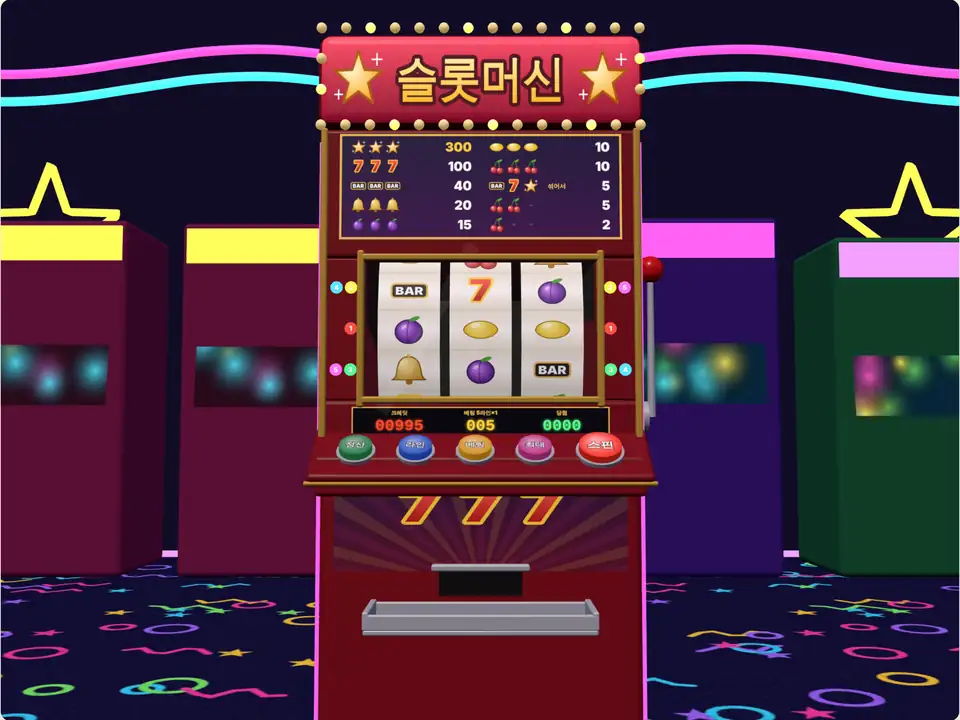
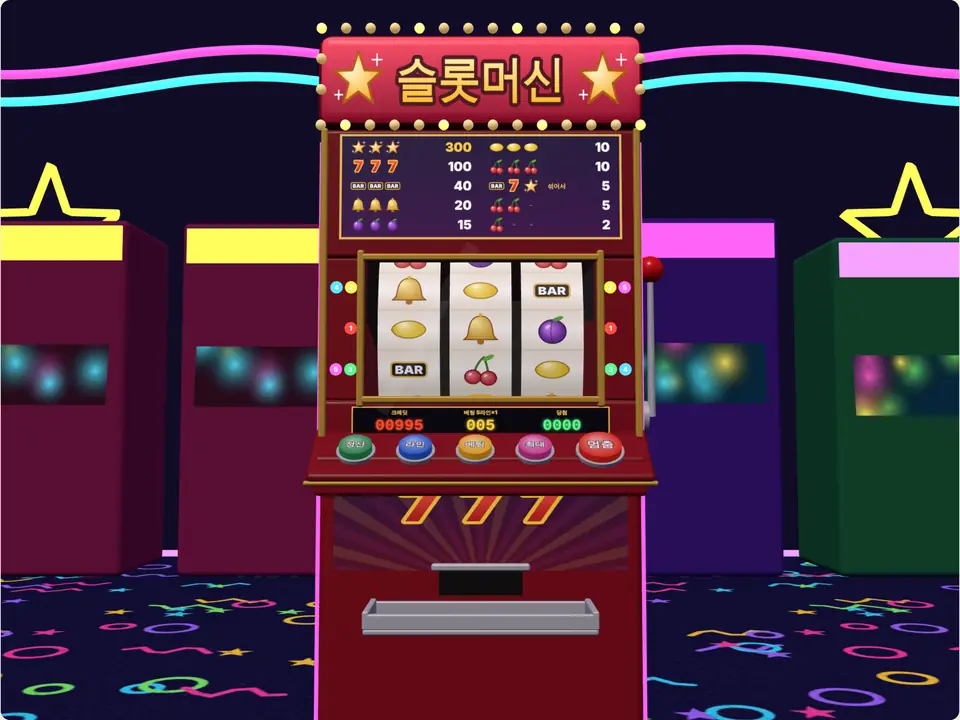
Slot machine: only the lever starts it by a pointer; the spin button becomes 멈춤 (hurry only)
Claude-Session: https://claude.ai/code/session_01Uedx1uYtd54DPXXtQh77nN

diff --git a/src/games/slots/view.ts b/src/games/slots/view.ts
@@ -29,7 +29,8 @@ const BUTTONS = [
   { key: "lines", label: "라인", move: LINE_MOVE, x: -0.24, colour: "#2a5ac8" },
   { key: "bet", label: "베팅", move: BET, x: -0.02, colour: "#e0a020" },
   { key: "max", label: "최대", move: MAX, x: 0.2, colour: "#c83a8a" },
-  { key: "spin", label: "스핀", move: PULL, x: 0.44, colour: "#d8261c" },
+  // Only the lever starts the machine by a click or a touch (the user asked); this button stops the turning reels sooner.
+  { key: "stop", label: "멈춤", move: HURRY, x: 0.44, colour: "#d8261c" },
 ];
 /** The console the buttons stand on: its middle's height, how far it stands out, and how far its top leans toward the player. */
 const DECK = { y: 0.86, z: FRONT + 0.2, slope: 0.62 };
@@ -143,7 +144,7 @@ function stripTextures(reel: number, keep: Keep) {
 /**
  * A slot machine in an amusement arcade's corner, seen from the stool before it: a cabinet with a lit sign and
  * chasing bulbs on top, the pay table, the reel window with three real drums turning behind the glass, the credit
- * display, a deck of buttons (정산, 라인, 베팅, 최대, 스핀), a lever on the right, and the coin tray under it where
+ * display, a deck of buttons (정산, 라인, 베팅, 최대, 멈춤), a lever on the right, and the coin tray under it where
  * the winnings rattle out. The reels' stops are drawn here at random (each place of a strip as likely as any) and
  * played as the spin's move; the books (`rules.ts`) pay what the stops show once every reel has come to rest.
  */
@@ -457,7 +458,7 @@ export class SlotView extends TableView<State> {
   private deckButtons(keep: Keep) {
     const ringPaint = this.metal("#d8dde4", capable(), 0.2);
     for (const button of BUTTONS) {
-      const big = button.key === "spin",
+      const big = button.key === "stop",
         r = big ? 0.085 : 0.066,
         label = painted(
           128,
@@ -548,7 +549,7 @@ export class SlotView extends TableView<State> {
   private legal(to: number) {
     return !!this.state && moves(this.state).some((m) => m.to === to);
   }
-  /** The lever, the spin button, a tap on the window or the space bar: pull (and spin), or hurry the next reel. */
+  /** The lever or the space bar: pull (and spin), or hurry the next reel. */
   private spinOrHurry() {
     const s = this.state;
     if (!s || s.winner !== null) return;
@@ -570,13 +571,15 @@ export class SlotView extends TableView<State> {
       const button = this.buttons[point - 2000];
       button.pressed = performance.now();
       this.onKnock?.("button", 1);
-      if (button.key === "spin") this.spinOrHurry();
-      else if (this.legal(button.move)) this.onMove({ from: -1, to: button.move, extra: -1 });
+      if (button.key === "stop") {
+        if (this.state?.pending && this.reels.some((r) => r.phase === "spin")) this.onMove({ from: -1, to: HURRY, extra: -1 });
+        else this.onKnock?.("deny", 1);
+      } else if (this.legal(button.move)) this.onMove({ from: -1, to: button.move, extra: -1 });
       else this.onKnock?.("deny", 1);
       return true;
     }
-    this.spinOrHurry();
-    return true;
+    // Anywhere else: nothing (only the lever starts the machine; the user found a tap anywhere pulled it).
+    return false;
   }
   protected dragMove(at: { x: number; y: number; z: number }) {
     const held = this.leverHeld;
@@ -779,8 +782,10 @@ export class SlotView extends TableView<State> {
       const age = now - b.pressed,
         dip = b.pressed >= 0 && age < 160 ? Math.sin((age / 160) * Math.PI) * 0.014 : 0;
       b.mesh.position.y = 0.03 - dip;
-      const on = b.key === "spin" ? !!this.state && this.state.winner === null && (!!this.state.pending || this.legal(PULL)) : this.legal(b.move);
-      b.cap.emissiveIntensity = on ? (b.key === "spin" && !this.state?.pending ? 0.55 + 0.25 * Math.sin(now / 220) : 0.5) : 0.08;
+      // 멈춤 lights while the reels turn (and blinks then); the others when what they do may be done.
+      const turning = !!this.state?.pending && this.reels.some((r) => r.phase === "spin"),
+        on = b.key === "stop" ? turning : this.legal(b.move);
+      b.cap.emissiveIntensity = on ? (b.key === "stop" ? 0.55 + 0.25 * Math.sin(now / 160) : 0.5) : 0.08;
     }
     // The lines: those played lit by their numbers; after a spin the winners blink; a change of lines shows them all.
     const s = this.state,

diff --git a/src/games/slots/config.ts b/src/games/slots/config.ts
@@ -83,7 +83,7 @@ export const slotMachineConfig: PointConfig<State> = {
       "기본 규칙",
       steps(
         "라인 수와 한 라인에 걸 크레딧(베팅)을 고릅니다. 한 번 돌리는 데 <b>라인 수 × 베팅</b>만큼 크레딧이 듭니다.",
-        "오른쪽의 <b>레버를 아래로 끌어 당기면</b>(또는 <b>스핀</b> 버튼, 스페이스) 세 릴이 돌기 시작해 왼쪽부터 하나씩 멈춥니다. 돌고 있을 때 스핀 버튼이나 스페이스를 누르면 다음 릴이 바로 멈춥니다(결과는 그대로입니다).",
+        "오른쪽의 <b>레버를 아래로 끌어 당기면</b>(키보드는 스페이스) 세 릴이 돌기 시작해 왼쪽부터 하나씩 멈춥니다. 마우스·터치로는 <b>레버만</b> 기계를 돌립니다(다른 곳을 눌러도 돌지 않습니다). 돌고 있을 때 빨간 <b>멈춤</b> 버튼이나 스페이스를 누르면 다음 릴이 바로 멈춥니다(결과는 그대로입니다).",
         "고른 라인 위에 당첨 그림이 서면 그 라인의 배당 × 베팅만큼 크레딧을 받습니다. 여러 라인이 함께 맞으면 모두 받습니다.",
         "크레딧이 가장 작은 베팅(1)보다 적어지면 끝납니다(파산). 언제든 <b>정산</b>을 누르면 끝내고, 처음보다 크레딧이 늘었으면 승리입니다.",
       ),
@@ -122,7 +122,7 @@ export const slotMachineConfig: PointConfig<State> = {
         "레버는 끝까지 끌어내려야 걸립니다. 놓으면 튕겨 올라옵니다.",
       ),
     ),
-  help: "마우스·터치: 오른쪽 레버를 아래로 끌기, 또는 화면·스핀 버튼 누르기<br>버튼: 정산·라인·베팅·최대·스핀<br>키보드: 스페이스 스핀·멈춤, ↑ 베팅, ← → 라인, M 최대",
+  help: "마우스·터치: 오른쪽 레버를 아래로 끌어 돌리기(레버만 기계를 돌립니다)<br>버튼: 정산·라인·베팅·최대·멈춤<br>키보드: 스페이스 돌리기·멈춤, ↑ 베팅, ← → 라인, M 최대",
   sides: ["나", ""],
   startWord: "슬롯머신 앞에 앉기",
 };

diff --git a/tests/e2e/slot-machine.spec.ts b/tests/e2e/slot-machine.spec.ts
@@ -18,7 +18,7 @@ async function rested(page: Page) {
   await expect.poll(async () => /릴이 돌고/.test((await books(page)).text), { timeout: 20000 }).toBe(false);
 }
 
-test("slot machine: the bet is set on the cabinet, the lever pulled by a drag spins, space and the spin button spin, and the credits add up", async ({ page }, info) => {
+test("slot machine: the bet is set on the cabinet, the lever pulled by a drag spins, space spins, only the lever starts it by the mouse, the stop button hurries, and the credits add up", async ({ page }, info) => {
   test.slow();
   const errors: string[] = [];
   page.on("pageerror", (e) => errors.push(e.message));
@@ -60,11 +60,23 @@ test("slot machine: the bet is set on the cabinet, the lever pulled by a drag sp
   await rested(page);
   after = await books(page);
   expect(after.credits).toBe(before - 10 + after.won);
-  // The spin button on the deck.
+  // Only the lever starts the machine by the mouse: a click on the reels' window, the stop button or the room spins
+  // nothing, and the lever stays up.
   before = after.credits;
-  const spin = await at("spin");
-  await page.mouse.click(spin.x, spin.y);
+  const frame = (await canvas.boundingBox())!,
+    stop = await at("stop");
+  for (const [x, y] of [[frame.x + frame.width / 2, frame.y + frame.height * 0.42], [stop.x, stop.y], [frame.x + 30, frame.y + frame.height - 30]]) {
+    await page.mouse.click(x, y);
+    await page.waitForTimeout(400);
+    await expect(canvas).toHaveAttribute("data-spinning", "false");
+    expect(Number(await canvas.getAttribute("data-lever"))).toBeLessThan(0.05);
+  }
+  expect((await books(page)).credits).toBe(before);
+  // While the reels turn, the 멈춤 button stops the next reel sooner.
+  await canvas.focus();
+  await page.keyboard.press(" ");
   await expect(canvas).toHaveAttribute("data-spinning", "true", { timeout: 10000 });
+  await page.mouse.click(stop.x, stop.y);
   await rested(page);
   after = await books(page);
   expect(after.credits).toBe(before - 10 + after.won);

diff --git a/AGENTS.md b/AGENTS.md
@@ -366,3 +366,4 @@
 - Slot machine (`slots/`, 슬롯머신, id `slot-machine`, 아케이드게임, NO. 110, full edition only; the user asked) runs like the coin pusher (`live`, `pausable`, `noUndo`, `noPanel`, stages 300/1000/3000 credits, `newGameLabel` 크레딧 고르기). `sim.ts` (free of Three.js and DOM): three strips of `N` 24 (`STRIPS`: 3 cherries, 5 lemons, 5 plums, 4 bells, 3 BARs, 2 sevens, 2 stars on the first two; 3/6/5/4/4/1/1 on the third), five `LINES`, `LINE_CHOICES` 1/3/5, `BETS` 1/2/3/5/10, the pay table (`THREE`, `ANY_HIGH`, `TWO_CHERRIES`, `ONE_CHERRY`, `payOf`), `evaluate`, `drawStops` (each place equally likely), `packStops`, `returnToPlayer` (exact over 24³ stops: 95.37%, the same for any number of lines; stated in the rules). `rules.ts`: `PULL` (the view then draws the stops with `cryptoRandom` and plays `SPIN`, its `extra` the packed stops: the bet taken, the win known as `pending`), `HURRY` (the next reel stops sooner, no change to the result), `SETTLE` (paid once every reel rests), `LINES`/`BET` step to the next the credits cover, `LINES + n`/`BET + b`, `MAX`, `CASH` (정산: won when above the start); out of credits it is lost. `view.ts` (`SlotView`): coin pusher's `arcadeRoom`; drums of custom geometry (`drumGeometry`), a streaked texture while fast; reels kick up, spin at `SPEED` 15 symbols/s, stop at `FIRST_STOP` 0.85 s + `NEXT_STOP` 0.42 s each, overshoot `OVER` 0.22 and settle; the lever is dragged on an upright plane and trips at `TRIP` 0.85, springing back; won lines blink, credits count up, coins fly to the tray, a big win flashes the bulbs. A phone held sideways brings the eye nearer (`WIDE_NEAR`, `WIDE_LIFT`). Canvas: `data-reels`, `data-spinning`, `data-lever`, `data-points`. Keys: Space/Enter/↓ spin or hurry, ↑ bet, ← → lines, M max. Tests: `tests/slot-machine.test.ts` (strips, pay table, each line, the exact return, seeded stops, credits), `tests/e2e/slot-machine.spec.ts`.
 - The full edition on the web (the user asked: "용량은 신경쓰지 말고 대신 html를 브라우저로 열 수 있는 링크를 줘"): after every finished change, also copy `dist/world-table-games.html` to the `share` repository as `full/index.html` (https://twentywon.github.io/share/full/; the student edition stays at the root, https://twentywon.github.io/share/). GitHub Pages takes a file up to 100 MB, so the single html's 16 MB limit no longer binds: do not recompress thumbnails or cut anything for size. The Artifact is still republished while the html is under 16,777,216 bytes; once it is over, the Artifact keeps its last version and the Pages link is the one to give.
 - 핀볼 (NO. 107) and 스노보드 (NO. 111) were removed at the user's request ("핀볼, 스노보드 삭제"): their folders, tests, specs, thumbnails, catalog entries, app registrations, `chrome.ts` end words, music, CSS (`.sb-*`), capture entries and update-log items are gone; the numbers 107 and 111 stay unused. Their code is in the git history (the snowboard's last state at 4b8f992) if asked for again.
+- Slot machine, only the lever starts it by a pointer (the user asked: "슬롯머신에서 기계 시작 클릭 판정을 레버에만 줘. 다른 곳을 클릭해도 레버가 움직여"): a press that is not on the lever (its unseen wider grip included) or a button now does nothing (`dragStart` returns false; it used to pull and spin, and the lever swung down by itself); the deck's red button is 멈춤 (`stop`, `HURRY`): it only hurries the turning reels and lights, blinking, while they turn. Space still pulls and hurries; the screen readers' hidden 스핀 tool stays. Test: `tests/e2e/slot-machine.spec.ts` (clicks on the window, 멈춤 and the room spin nothing and leave the lever up; 멈춤 while turning).

diff --git a/ROADMAP.md b/ROADMAP.md
@@ -453,6 +453,7 @@
 - [x] 스노보드: ↓ 숙여 빨라지기·↑ 점프·←→ 회전(휴대폰 버튼 ⟲ ⟳ ▲ ▼), 훨씬 빠른 속도(최고 약 180km/h)와 속도선·스쳐 가는 앞쪽 눈더미·목도리·km/h 표시, 그림자·눈 덮인 봉우리·구름·반짝이는 눈
 - [x] 스노보드: 앞을 가리던 눈더미 없앰, 코스 세 패턴(굴곡·긴 내리막+점프·평범, 바위는 평범에만), 실사 그래픽(대기 산란 하늘, 입체 산맥과 안개, 실제 그림자, 눈 결), 넘어졌다 일어나는 모션, 회전 느리게
 - [x] 핀볼·스노보드 삭제(사용자 요청)
+- [x] 슬롯머신: 클릭·터치로는 레버만 기계를 돌림(다른 곳을 눌러도 레버가 움직이던 문제), 스핀 버튼은 멈춤 버튼으로
 - [x] 탁구: 컴퓨터 라켓 속도·반응 빠르게(쉬움 2.0, 보통 2.6, 어려움 3.4 m/s), 옆으로 치거나 휜 공도 받아 냄
 - [x] 낚시: 시간 제한과 난이도 없앰(점수가 계속 쌓임, 호수의 하루는 6분마다 돎), 바다 낚시는 흔들리는 낚싯배 위에서
 - [x] 낚시 어종: 호수에 개구리·가재, 바다에 장어·청새치·상어·고래 추가, 참돔 뺌

diff --git a/README.md b/README.md
@@ -1114,3 +1114,4 @@ npm run build:html
 ## 핀볼·스노보드 삭제 (사용자 요청)
 
 - 핀볼(NO. 107)과 스노보드(NO. 111)를 컬렉션에서 뺐습니다. 코드·테스트·썸네일도 모두 지웠습니다(번호 107·111은 비어 있습니다).
+- 슬롯머신(사용자 요청): 마우스·터치로는 **레버만** 기계를 돌립니다. 릴 창이나 다른 곳을 눌러도 돌지 않고 레버도 움직이지 않습니다. 빨간 스핀 버튼은 **멈춤** 버튼이 되어, 릴이 도는 동안 누르면 다음 릴이 바로 멈춥니다(결과는 그대로). 키보드는 스페이스로 돌리고 멈춥니다.
